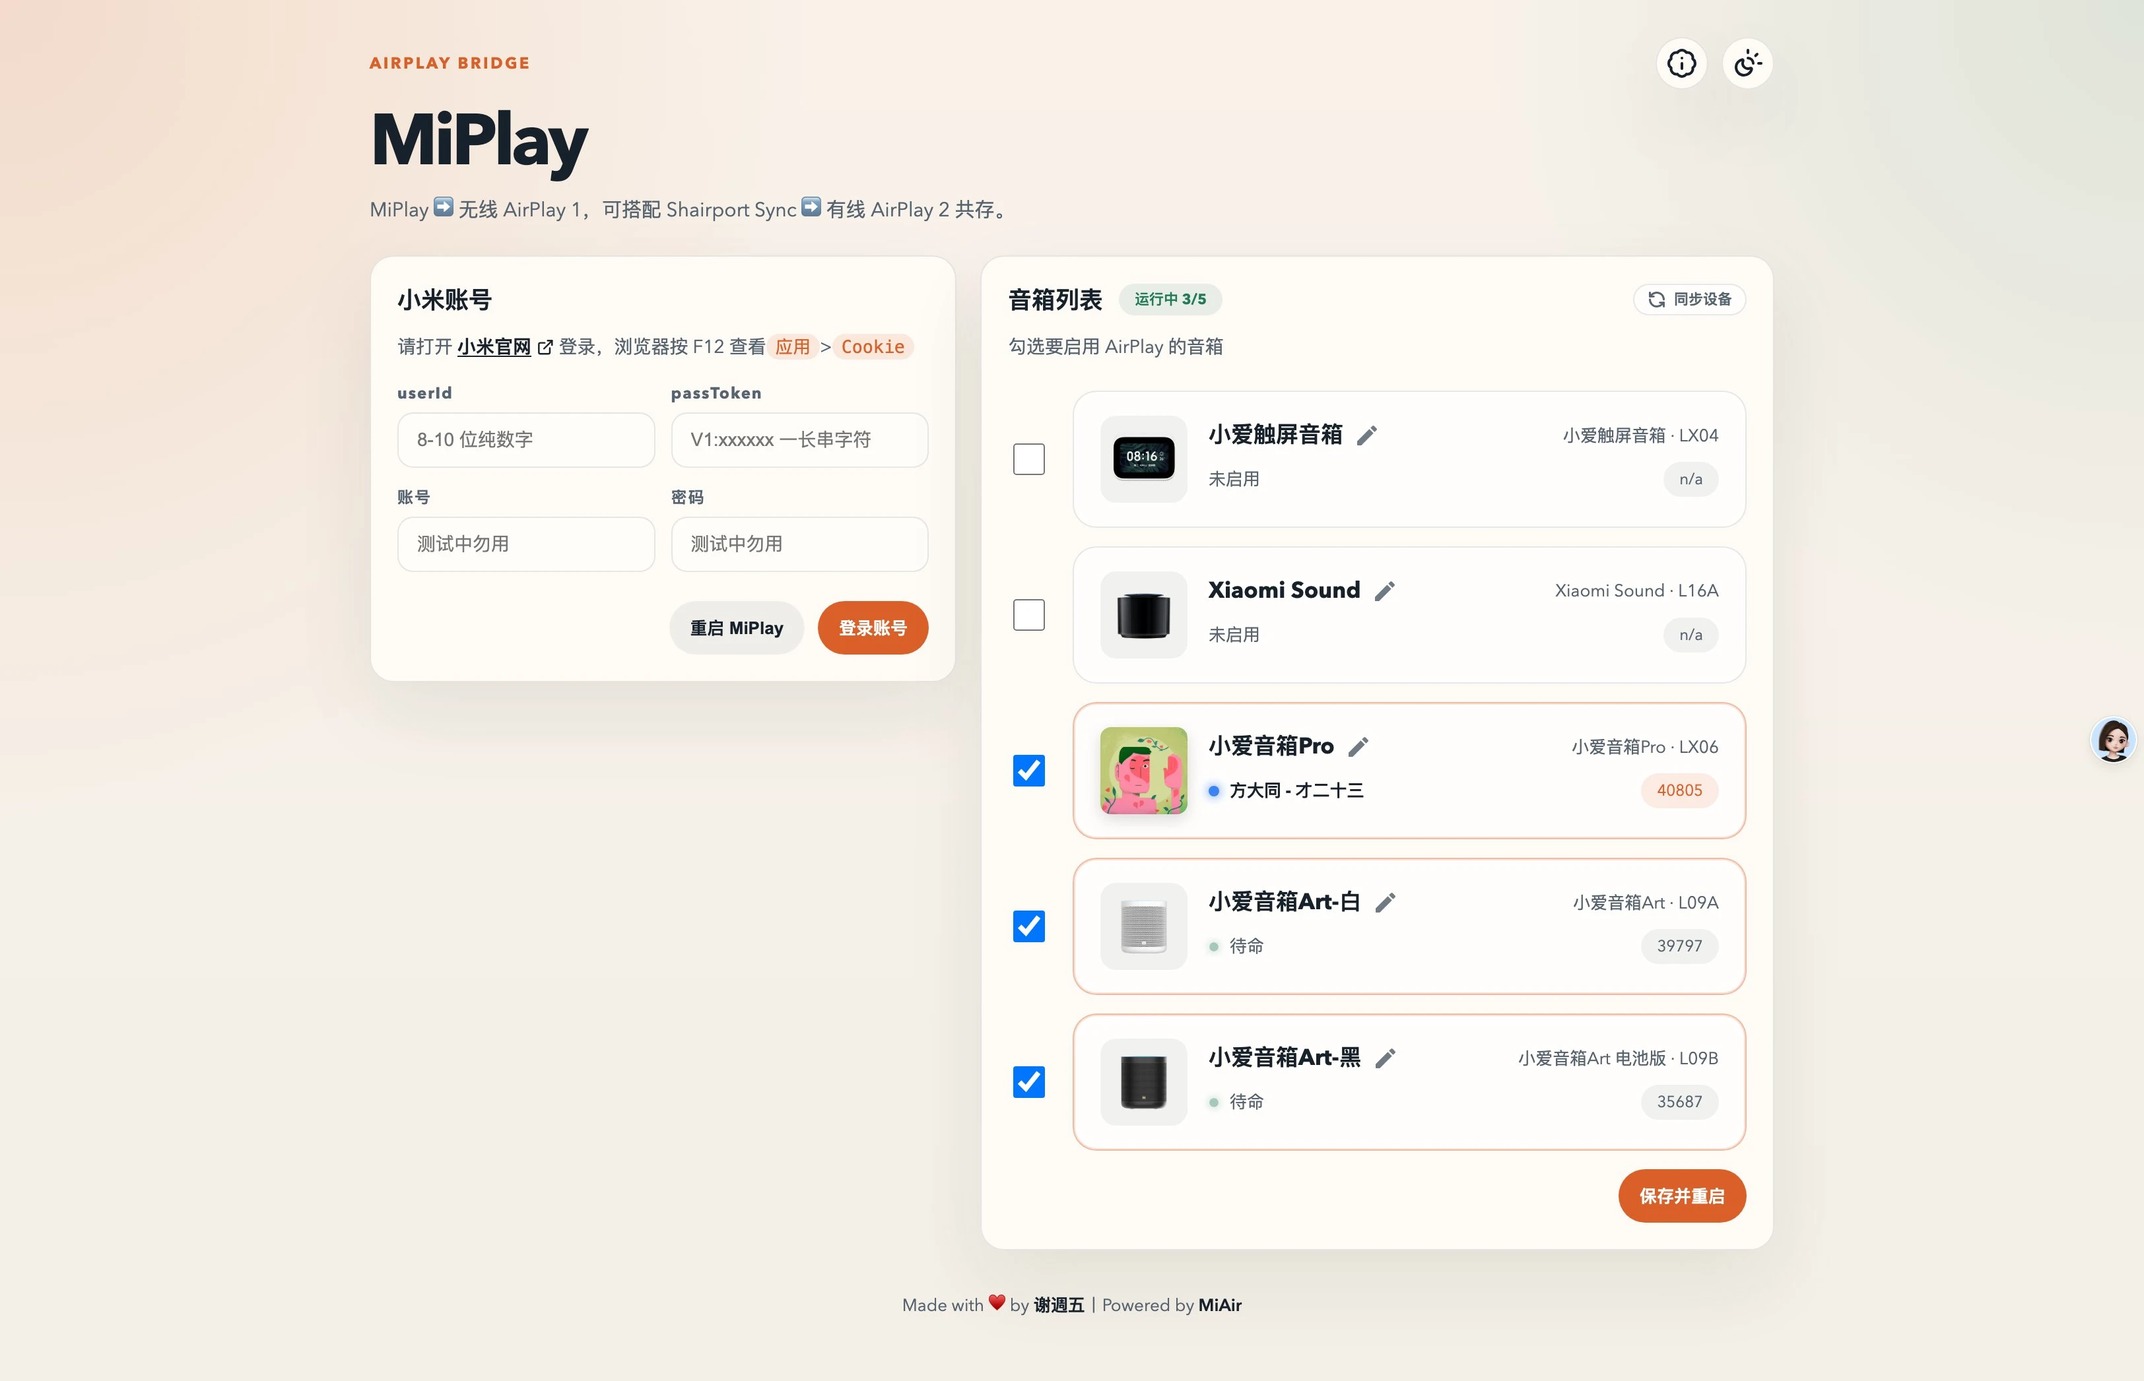
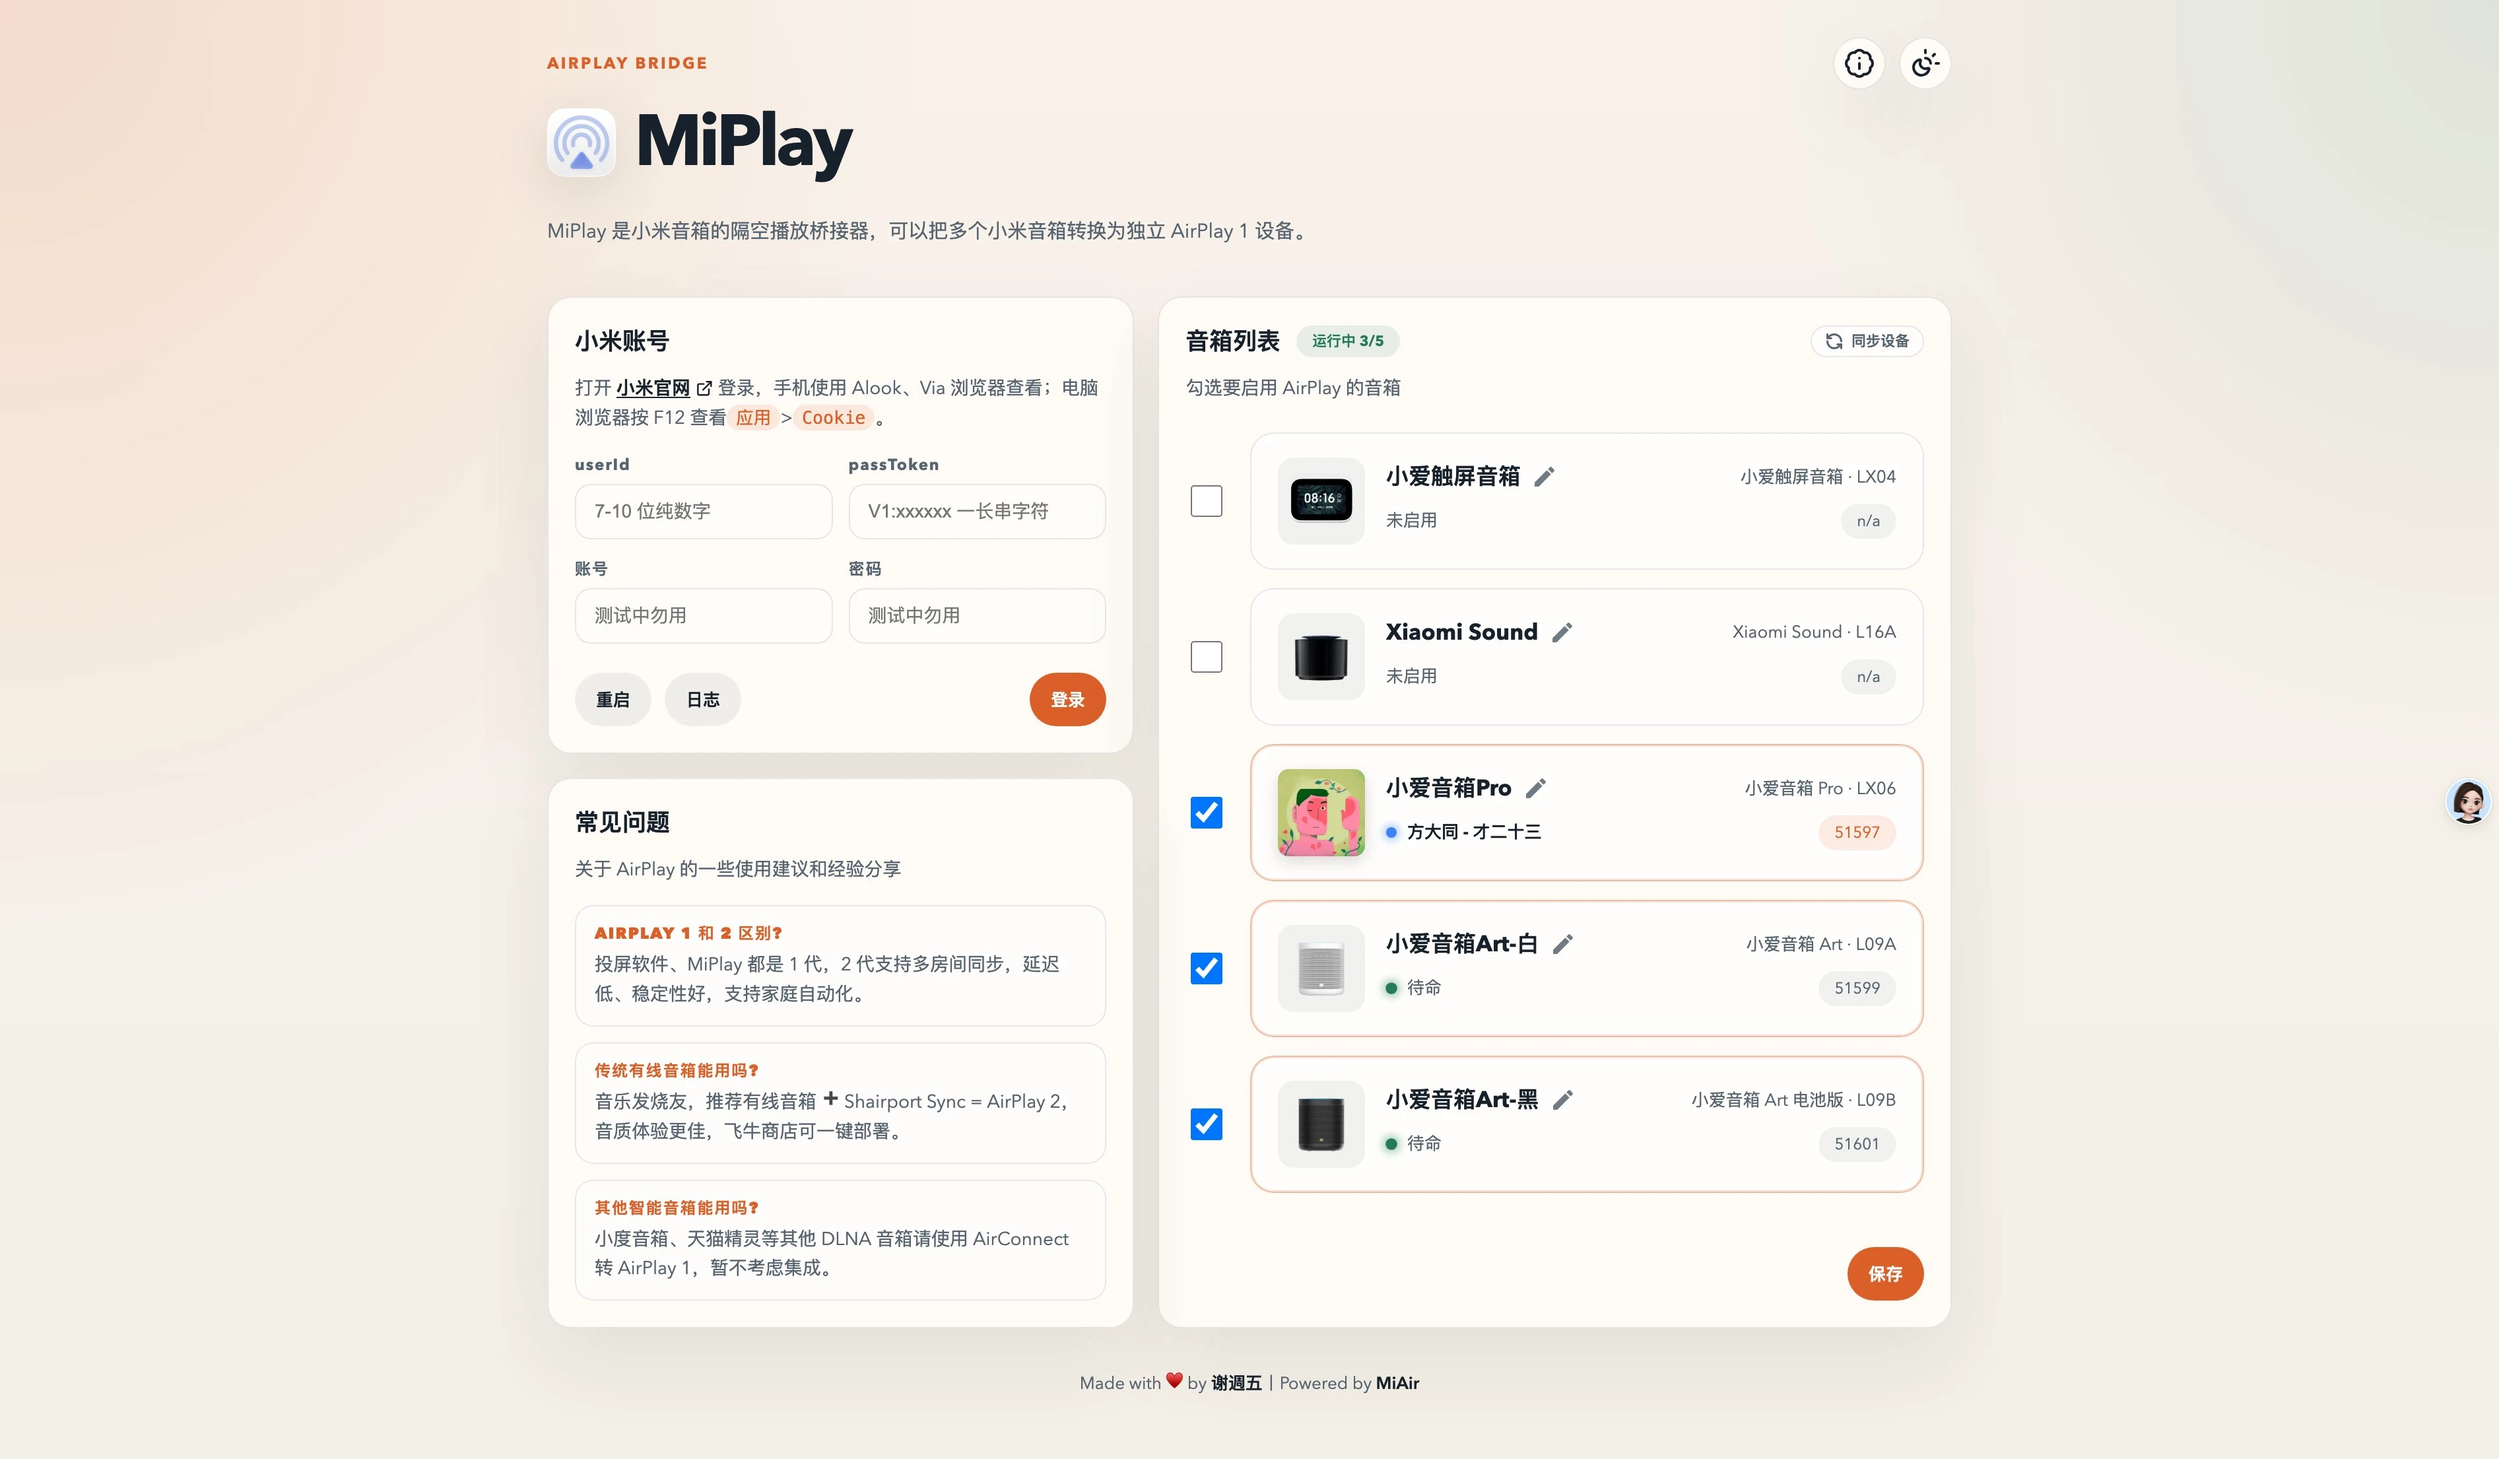
v2

diff --git a/README.md b/README.md
@@ -1,14 +1,15 @@
 # MiPlay
 
-MiPlay 是一个小米音箱的 AirPlay 无线桥接器，可以把多个小米音箱一次性转发成多个独立的 AirPlay 设备。
-> 本项目参考并整合了[MiAir](https://github.com/KiriChen-Wind/MiAir)、[miservice-fork](https://pypi.org/project/miservice-fork/)、[AirPlay2-Receiver](https://github.com/openairplay/airplay2-receiver)、[XiaoMusic](https://github.com/hanxi/xiaomusic)等项目的思路与部分实现，面向自用场景进行了重构。
+MiPlay 是小米音箱的隔空播放`桥接器`，可以把多个小米音箱转换为独立 AirPlay 1 设备。
+> 本项目参考并整合了 [MiAir](https://github.com/KiriChen-Wind/MiAir)、[miservice-fork](https://pypi.org/project/miservice-fork/)、[AirPlay2-Receiver](https://github.com/openairplay/airplay2-receiver)、[XiaoMusic](https://github.com/hanxi/xiaomusic) 等项目的思路与部分实现，面向自用场景进行了重构。
 
 ![miplay-1.webp](./miplay-1.webp)
+
 ![miplay-2.webp](./miplay-2.webp)
 
 ## ✨ 功能特色
 
-- 小米音箱注册独立 AirPlay 设备
+- 小米音箱注册独立 AirPlay 1 设备
 - 支持 x86、arm64 架构
 - 一机搞定，传统音箱➕小米音箱
     - 小米无线音箱（方便）：MiPlay ➡ 无线 AirPlay 1
